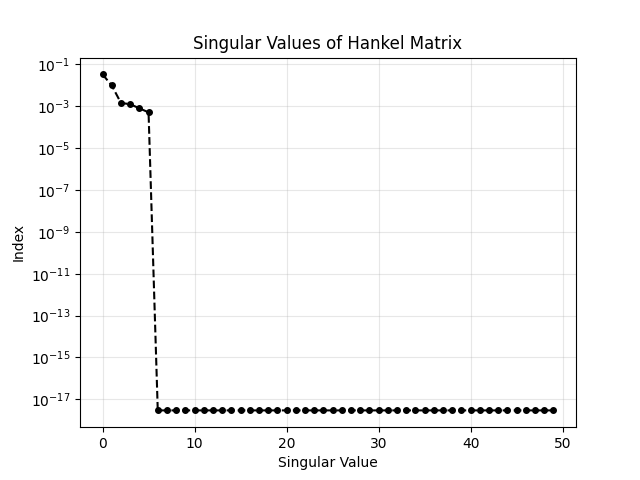
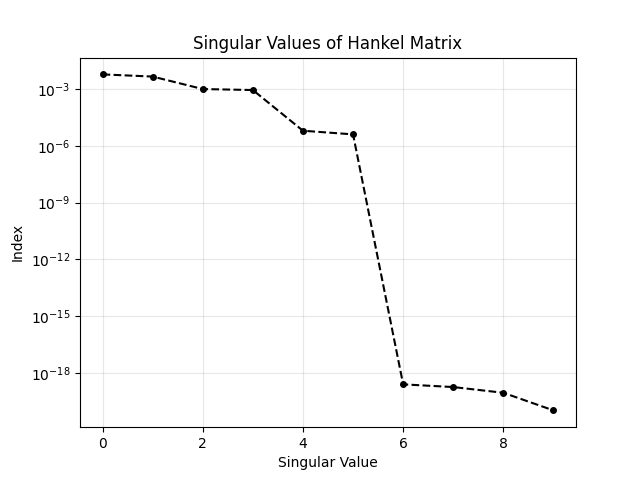
problem 5

diff --git a/Problem_5.py b/Problem_5.py
@@ -99,14 +99,14 @@ def Hankel_matrix(markov_params, r, s):
     print((r*p, s*m))
     H = np.zeros((r*p, s*m))
 
-    # Create Hankel matrix
+    # Create Hankel matrix 
     for i in range(r):
         for j in range(s):
             H[i*p:(i+1)*p, j*m:(j+1)*m] = markov_params[i+j]
 
     # Split Hankel matrix into past and future parts
     #Hp = H[:p*r//2, :m*s//2]  # past
-    #Hf = H[p*r//2:, :m*s//2]  # future
+    #Hf = H[p*r//2:, :m*s//2]  # future 
     Hp = H
     # SVD decomposition
     U, S, Vt = np.linalg.svd(Hp, full_matrices=False)
@@ -147,7 +147,7 @@ Model_Stochastic = FourTankSystem(R_s*0, R_d*0, p, delta_t)
 x0 = np.concatenate((x0, np.zeros(2)))  
 xs = Model_Stochastic.GetSteadyState(x0, u)
 
-Ac,Bc,Ec,C,Cz = Model_Stochastic.LinearizeContinousTime(xs,d)
+Ac,Bc,Ec,_,C,Cz = Model_Stochastic.LinearizeContinousTime(xs,d)
 Q = Q_matrix(Ac,Bc,delta_t)
 
 pairs = [(1, 1), (2, 1), (2, 2), (1, 2)]
@@ -198,7 +198,7 @@ Poles.to_csv(r"Results\Problem5\Poles.txt", sep='\t', index=True)
 
 #%% Linearize Discrete time 
 Ts = 1
-Ad, Bd, C, Cz = Model_Stochastic.LinearizeDiscreteTime(xs, d, Ts)
+Ad, Bd, Ed, C, Cz = Model_Stochastic.LinearizeDiscreteTime(xs, d, Ts)
 
 # Markov parameters 
 N = 20*60
@@ -264,7 +264,7 @@ for i in range(p):
 plt.tight_layout()
 plt.savefig(r"Figures\Problem5\Problem_5_Stepresponse.png")
 
-H_hankel, A_est, B_est, C_est, S_values = Hankel_matrix(H, 25, 25)
+H_hankel, A_est, B_est, C_est, S_values = Hankel_matrix(H, 5, 5)
 
 plt.figure()
 plt.plot(S_values, marker='o',linestyle="--", markersize=4,color="black")
@@ -275,10 +275,12 @@ plt.ylabel("Index")
 plt.title("Singular Values of Hankel Matrix")
 plt.savefig(r"Figures\Problem5\Problem_5_Hankel_Structure.png")
 # Create a dictionary with all estimated matrices
+
 estimates = {
     "A": A_est,
     "B": B_est,
     "C": C_est,
-    "Q": Q
+    "Q": Q,
+    "Hankel":H_hankel
 }
 np.savez(r"Results\Problem5\Problem_5_estimates.npz", **estimates)

diff --git a/Problem_7.py b/Problem_7.py
@@ -1,0 +1,36 @@
+import numpy as np 
+import matplotlib.pyplot as plt 
+from src.QPSolver import qpsolver
+from scipy.linalg import block_diag
+
+
+def kron(W):
+    I = np.empty_like(W)
+    Wbar = np.kron(I,W)
+
+    return Wbar
+
+def MPC_uncontrained(zinit,uinit,Wz,Wu,Wdu,N,Markov_array):
+
+    noutput,moutput = Wu.shape()
+    wz_bar = kron(Wz)
+    Wu_bar = kron(Wu)
+    Wdu_bar = kron(Wdu)
+
+    Lamb = np.eye(N)
+    Lamb += -1*np.eye(N,k=-1)
+
+    Gamma = 0    
+
+
+
+
+
+
+
+
+
+
+
+
+

diff --git a/Problem_6.py b/Problem_6.py
@@ -68,7 +68,7 @@ W = np.random.multivariate_normal(mean=np.zeros(A_est.shape[0]), cov=Q, size=N)
 V = np.random.multivariate_normal(mean=np.zeros(R.shape[0]), cov=R, size=N)
 X_true = np.zeros([N, 4])  
 
-linear = 0
+linear = 1
 static = 1
 Hankel = 0
 disturbance_change = 1
